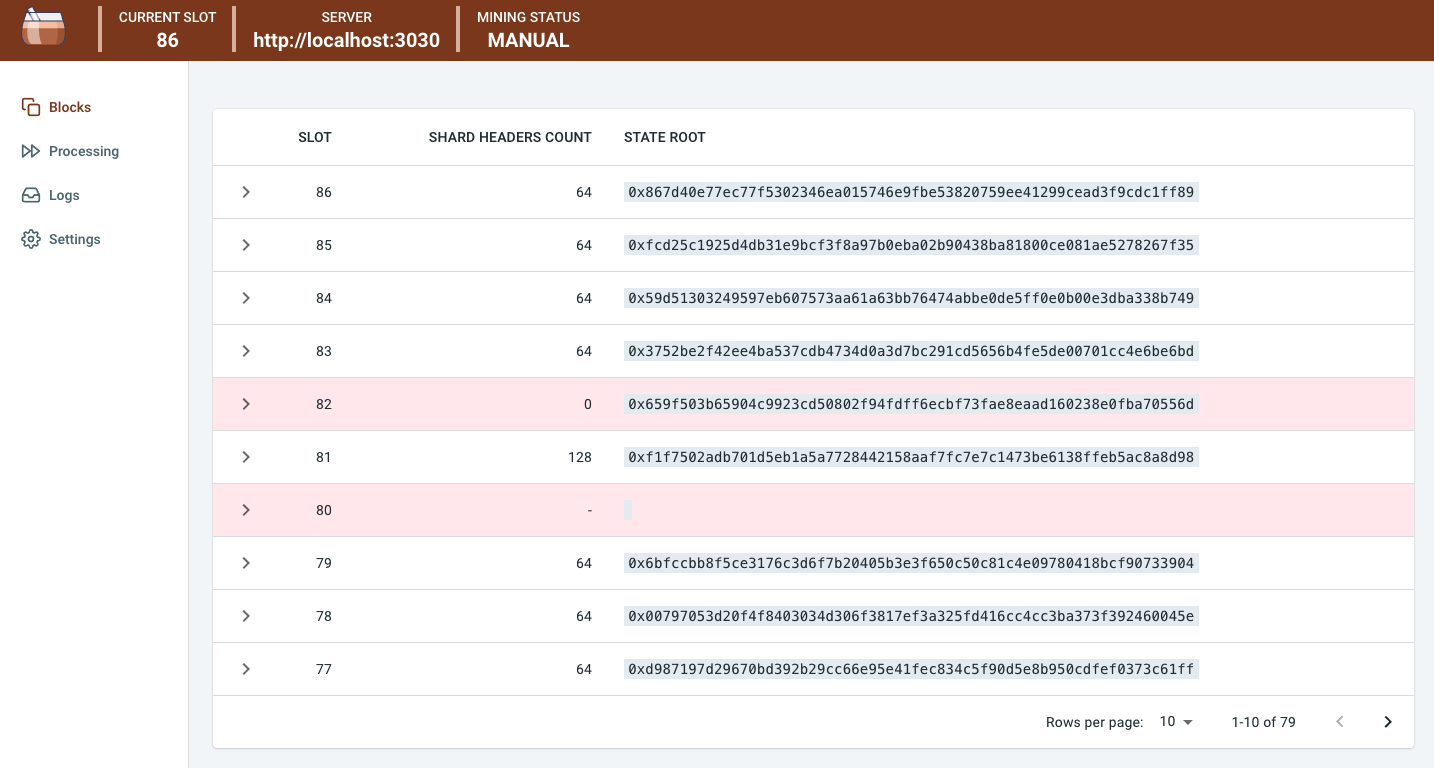
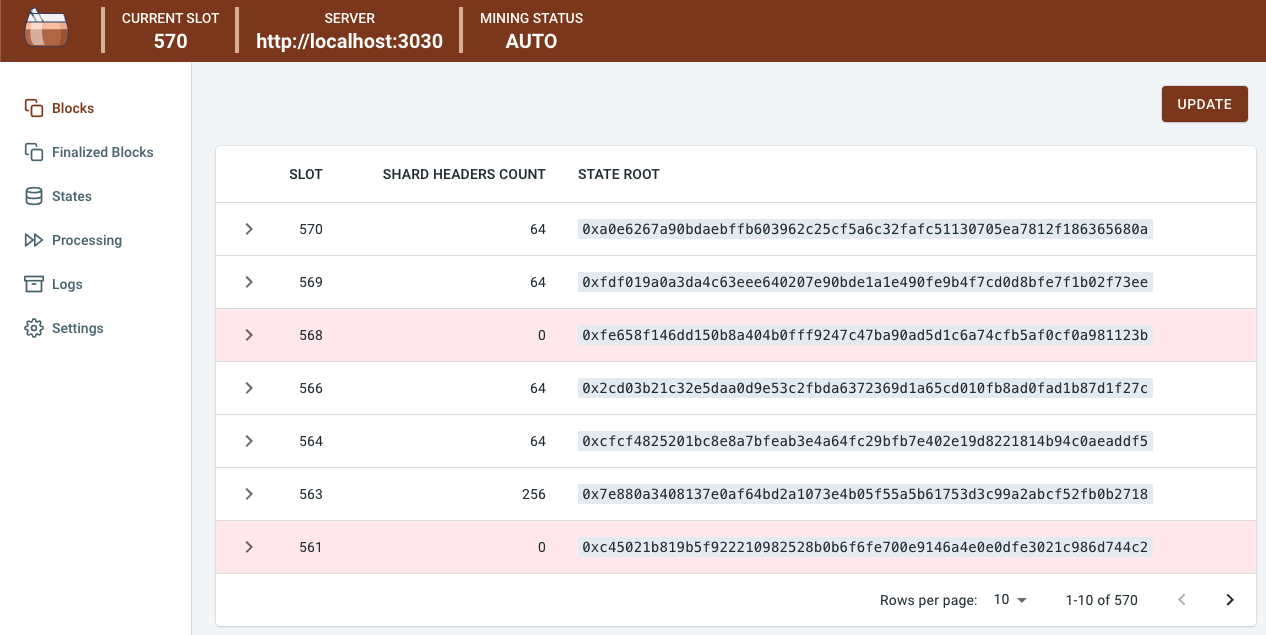
Update options and image

diff --git a/README.md b/README.md
@@ -2,7 +2,6 @@
 
 Mousse is an Ethereum 2.0 emulator for local testing of Eth2 applications (mainly Rollups).
 
-![](dashboard.png)
 
 ## Getting Started
 
@@ -13,13 +12,26 @@ $ cargo build --release
 $ ./target/release/http_api
 ```
 
+#### Flags
+```
+-a, --auto       Running simulator in auto mode. Default: false.
+-h, --help       Prints help information
+-V, --version    Prints version information
+```
 #### Options
-- `--port`: Port number to listen on. Default: 3030.
+```
+-f, --failure-rate <FAILURE_RATE>    Failure rate for the auto mode. Default: 0.
+-p, --port <PORT>                    Port number to listen on. Default: 3030.
+-s, --slot-time <SLOT_TIME>          Slot time in seconds for the auto mode. Default: 12.
+```
 
 #### Logging
 ```
 $ RUST_LOG=trace ./target/release/http_api 
 ```
+
+## Dashboard
+![](dashboard.png)
 
 ### Run Dashboard
 If you want to use the GUI to visualize and control the emulator, run the dashboard by entering the following commands.
